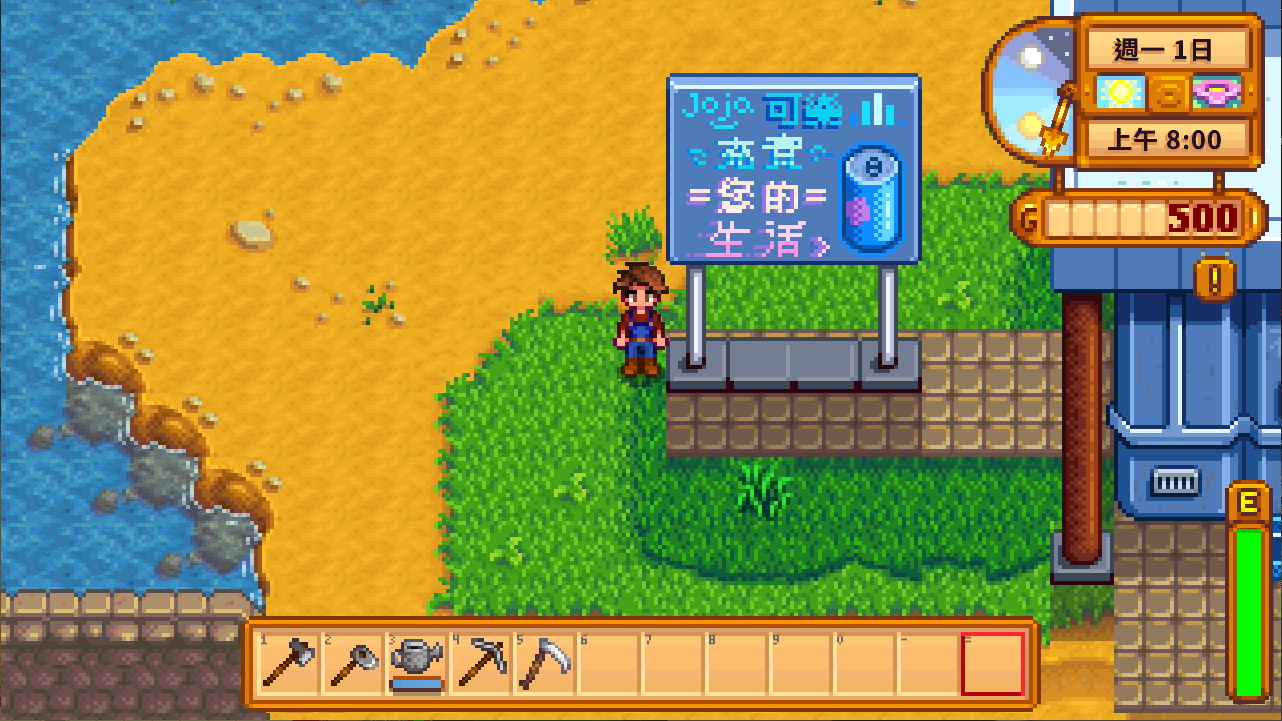
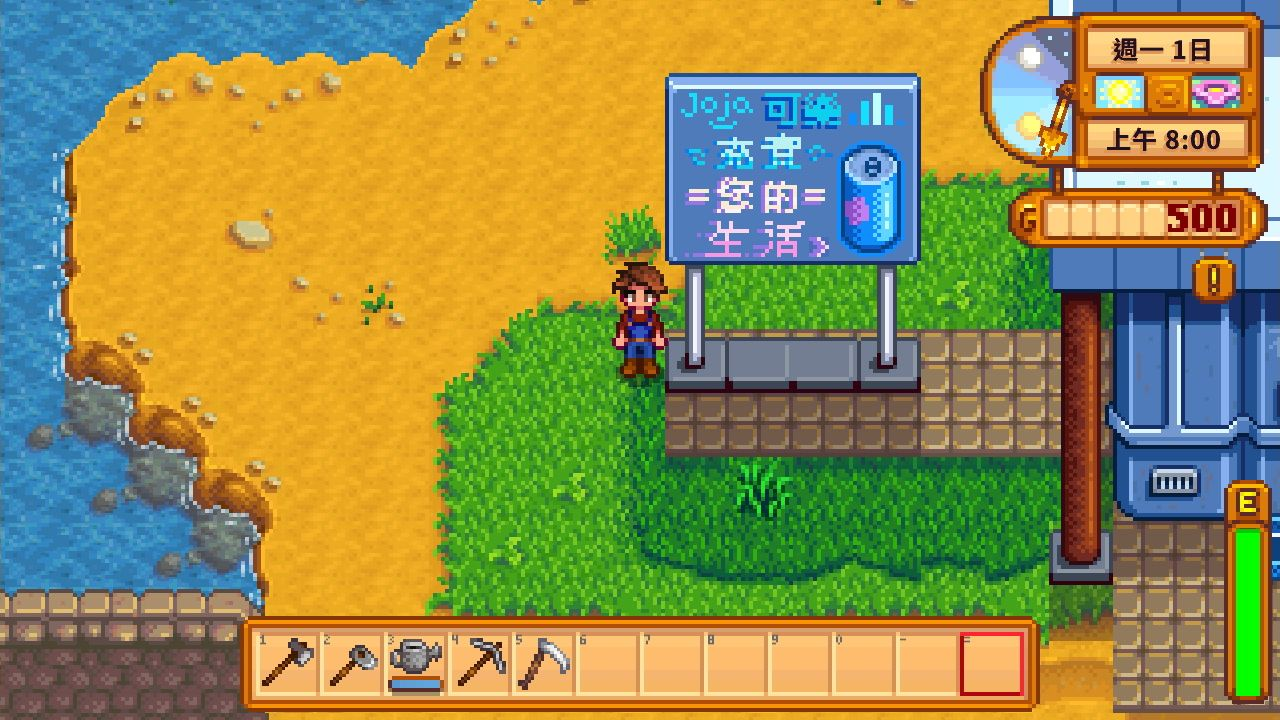
Update 0.9.1

diff --git a/index.html b/index.html
@@ -40,7 +40,7 @@
 						<div class="content">
 							<div class="inner">
 								<h1>《星露谷物語》正體中文模組</h1>
-								<p>模組版本：<a href="#update">0.9</a>  </p>
+								<p>模組版本：<a href="#update">0.9.1</a>  </p>
 							</div>
 						</div>
 						<nav>
@@ -49,7 +49,7 @@
 								<li><a href="#about" class="icon solid fa-street-view">參與成員</a></li>
 								<li><a href="#download" class="icon solid fa-download">安裝模組</a></li>
 								<li><a href="#contact" class="icon solid fa-envelope">聯絡資訊</a></li>
-								<li><a href="#donate" class="icon solid fa-pray">施捨我們</a></li>
+								<li><a href="#donate" class="icon solid fa-pray">支持我們</a></li>
 							</ul>
 						</nav>
 					</header>
@@ -65,63 +65,63 @@
 								<div class="slideshow-container">
 								<!-- Full-width images with number and caption text -->
 								<div class="mySlides fade">
-									<img src="images/sample/SourceHanSans_01.jpg" style="width:100%">
+									<img src="images/sample/font/SourceHanSans_01.jpg" style="width:100%">
 									<div class="text">思源黑體</div>
 								</div>
 								<div class="mySlides fade">
-									<img src="images/sample/SweiGothic_01.jpg" style="width:100%">
+									<img src="images/sample/font/SweiGothic_01.jpg" style="width:100%">
 									<div class="text">獅尾圓體</div>
 								</div>
 								<div class="mySlides fade">
-									<img src="images/sample/NaikaiFont_01.jpg" style="width:100%">
+									<img src="images/sample/font/NaikaiFont_01.jpg" style="width:100%">
 									<div class="text">內海字體</div>
 								</div>
 								<div class="mySlides fade">
-									<img src="images/sample/JasonHandwriting1_01.jpg" style="width:100%">
+									<img src="images/sample/font/JasonHandwriting1_01.jpg" style="width:100%">
 									<div class="text">清松手寫體</div>
 								</div>
 								<div class="mySlides fade">
-									<img src="images/sample/Zpix_01.jpg" style="width:100%">
+									<img src="images/sample/font/Zpix_01.jpg" style="width:100%">
 									<div class="text">最像素</div>
 								</div>
 								<div class="mySlides fade">
-									<img src="images/sample/SourceHanSans_02.jpg" style="width:100%">
+									<img src="images/sample/font/SourceHanSans_02.jpg" style="width:100%">
 									<div class="text">思源黑體</div>
 								</div>
 								<div class="mySlides fade">
-									<img src="images/sample/SweiGothic_02.jpg" style="width:100%">
+									<img src="images/sample/font/SweiGothic_02.jpg" style="width:100%">
 									<div class="text">獅尾圓體</div>
 								</div>
 								<div class="mySlides fade">
-									<img src="images/sample/NaikaiFont_02.jpg" style="width:100%">
+									<img src="images/sample/font/NaikaiFont_02.jpg" style="width:100%">
 									<div class="text">內海字體</div>
 								</div>
 								<div class="mySlides fade">
-									<img src="images/sample/JasonHandwriting1_02.jpg" style="width:100%">
+									<img src="images/sample/font/JasonHandwriting1_02.jpg" style="width:100%">
 									<div class="text">清松手寫體</div>
 								</div>
 								<div class="mySlides fade">
-									<img src="images/sample/Zpix_02.jpg" style="width:100%">
+									<img src="images/sample/font/Zpix_02.jpg" style="width:100%">
 									<div class="text">最像素</div>
 								</div>
 								<div class="mySlides fade">
-									<img src="images/sample/SourceHanSans_03.jpg" style="width:100%">
+									<img src="images/sample/font/SourceHanSans_03.jpg" style="width:100%">
 									<div class="text">思源黑體</div>
 								</div>
 								<div class="mySlides fade">
-									<img src="images/sample/SweiGothic_03.jpg" style="width:100%">
+									<img src="images/sample/font/SweiGothic_03.jpg" style="width:100%">
 									<div class="text">獅尾圓體</div>
 								</div>
 								<div class="mySlides fade">
-									<img src="images/sample/NaikaiFont_03.jpg" style="width:100%">
+									<img src="images/sample/font/NaikaiFont_03.jpg" style="width:100%">
 									<div class="text">內海字體</div>
 								</div>
 								<div class="mySlides fade">
-									<img src="images/sample/JasonHandwriting1_03.jpg" style="width:100%">
+									<img src="images/sample/font/JasonHandwriting1_03.jpg" style="width:100%">
 									<div class="text">清松手寫體</div>
 								</div>
 								<div class="mySlides fade">
-									<img src="images/sample/Zpix_03.jpg" style="width:100%">
+									<img src="images/sample/font/Zpix_03.jpg" style="width:100%">
 									<div class="text">最像素</div>
 								</div>
 								<!-- Next and previous buttons -->
@@ -148,7 +148,7 @@
 								</span>
 								<span class="image main diff">
 									<img src="images/sample/journal_before.jpg">
-									<img src="images/sample/SourceHanSans_01.jpg" class="img-after">
+									<img src="images/sample/font/SourceHanSans_01.jpg" class="img-after">
 								</span>
 								<span class="image main diff">
 									<img src="images/sample/Pierre_before.jpg">
@@ -217,7 +217,7 @@
 											<tr class="center">
 												<td>PC</td>
 												<td>1.5.4</td>
-												<td>0.9</td>
+												<td>0.9.1</td>
 											</tr>
 											<!-- <tr>
 												<td>Android</td>
@@ -228,7 +228,7 @@
 									</table>
 								</div>
 								<h3>說明</h3>
-								<p>本模組分為覆蓋版及 Content Patcher 版（CP 版），並加入了五種字型任君挑選！</p>
+								<p>本模組分為覆蓋版及 Content Patcher 版（CP 版），以及結合兩者優點的完全版。</p>
 								<div class="table-wrapper">
 									<table class="alt">
 										<thead>
@@ -249,8 +249,8 @@
 												</td>
 												<td style="vertical-align: top;">
 													<ul> 
-														<li>移除較不便</li>
 														<li>少部分內容依然為簡體※</li>
+														<li>須自行檢查模組更新</li>
 														<li>遊戲版本更新可能無法使用</li>
 													</ul>
 												</td>
@@ -269,8 +269,25 @@
 												<td style="vertical-align: top;">
 													<ul>	
 														<li>須安裝 SMAPI 模組載入器</li>
-														<li>部分換行顯示不正確</li>
+														<li ><a href="#EOL">部分換行顯示不正確</li>
 														<li>可能會與部分 CP 模組衝突</li>
+													</ul>
+												</td>
+											</tr>
+											<tr>
+												<td style="font-weight: bold;">完全版</td>
+												<td style="vertical-align: top;">
+													<ul> 
+														<li>完整正體中文化</li>
+														<li>切換字型容易</li>
+														<li>模組更新提醒</li>
+														<li><a href="#conflict">極少模組衝突</a>（正體模組<br />不會覆蓋掉其他模組）</li>
+													</ul>
+												</td>
+												<td style="vertical-align: top;">
+													<ul>	
+														<li>須安裝 SMAPI 模組載入器</li>
+														<li>遊戲版本更新可能無法使用</li>
 													</ul>
 												</td>
 											</tr>
@@ -280,15 +297,16 @@
 												<td colspan="3"><span style="font-size:small;">※1.4 加入了新的檔案格式（<span class="hide">電影院</span>），需要使用 Content Patcher 模組才能載入。</span></td>
 											</tr>
 											<tr>
-												<td colspan="3">一般情況建議使用覆蓋版。</td>
+												<td colspan="3">除非遊戲大更新導致覆蓋版失效，否則建議使用覆蓋版或完全版。</td>
 											</tr>
 										</tfoot>
 									</table>
 								</div>
 								<h3>下載</h3>
 								<ul class="actions">
-									<li><a href="https://dl.orangedox.com/P7owml" class="button icon brands fa-windows" target="_blank">安裝程式</a></li>
+									<li><a href="https://dl.orangedox.com/dkL6V1" class="button icon brands fa-windows" target="_blank">覆蓋版</a></li>
 									<li><a href="#ContentPatcher" class="button icon solid fa-circle">CP 版</a></li>
+									<li><a href="#Mix" class="button icon solid fa-mortar-pestle">完全版</a></li>
 									<!--<li><a href="#android" class="button icon brands fa-android">Android</a></li>-->
 								</ul>
 								<h3>其他</h3>
@@ -299,50 +317,81 @@
 								</ul>
 							</article>
 
-						<!-- Content Patcher -->
-						<article id="ContentPatcher">
-							<h2 class="major">CP 版</h2>
-							<h3>安裝模組</h3>
-								<ol>
-									<li>安裝 <a href="https://smapi.io/" target="_blank">SMAPI</a></li>
-									<li>下載 <a href="https://www.nexusmods.com/stardewvalley/mods/1915" target="_blank">Content Patcher</a>（以下皆須註冊 Nexus 帳號才可下載）</li>
-									<li>下載 <a href="https://www.nexusmods.com/stardewvalley/mods/5098" target="_blank">Generic Mod Config Menu</a>（用於方便切換字型，非必要）</li>
-									<li>下載<a href="https://www.nexusmods.com/stardewvalley/mods/8007" target="_blank">正體中文模組</a></li>
-									<li>將檔案解壓縮之後放入 Mods 資料夾即可</li>
-								</ol>
-								
-							<h3>切換字型</h3>
-							<p>點擊遊戲主畫面左下角的齒輪，修改後重新啟動遊戲即可。（須安裝 Generic Mod Config Menu）</p>
-							<h4>手動切換</h4>
-							<p>開啟模組資料夾內的 config.json，將「"Font": "SourceHanSans"」的「SourceHanSans」改為下列對應值即可。</p>
-							<table>
-								<thead>
-								</thead>
-								<tbody>
-									<tr>
-										<td>思源黑體</td>
-										<td>SourceHanSans</td>
-									</tr>
-									<tr>
-										<td>獅尾圓體</td>
-										<td>SweiGothic</td>
-									</tr>
-									<tr>
-										<td>內海字體</td>
-										<td>NaikaiFont</td>
-									</tr>
-									<tr>
-										<td>清松手寫體</td>
-										<td>JasonHandwriting1</td>
-									</tr>
-									<tr>
-										<td>最像素</td>
-										<td>Zpix</td>
-									</tr>
-								</tbody>
-							</table>
-						</article>
+						<!-- EOL -->
+							<article id="EOL">
+								<p>點擊圖片或將游標移至圖片上可檢視差異。</p>
+								<span class="image main diff">
+									<img src="images/sample/EOL.jpg">
+									<img src="images/sample/EOL_CP.jpg" class="img-after">
+								</span>
+							</article>
 
+						<!-- conflict -->
+							<article id="conflict">
+								<p>點擊圖片或將游標移至圖片上可檢視差異。</p>
+								<span class="image main diff">
+									<img src="images/sample/no_conflict.jpg">
+									<img src="images/sample/conflict.jpg" class="img-after">
+								</span>
+							</article>
+
+						<!-- Content Patcher -->
+							<article id="ContentPatcher">
+								<h2 class="major">CP 版</h2>
+								<h3>安裝模組</h3>
+								<p>以下除 SMAPI 之外皆須登入 Nexus 帳號才可下載。</p>
+									<ol>
+										<li>安裝 <a href="https://smapi.io/" target="_blank">SMAPI</a></li>
+										<li>下載 <a href="https://www.nexusmods.com/stardewvalley/mods/1915" target="_blank">Content Patcher</a></li>
+										<li>下載 <a href="https://www.nexusmods.com/stardewvalley/mods/5098" target="_blank">Generic Mod Config Menu</a>（用於方便切換字型，非必要）</li>
+										<li>下載<a href="https://www.nexusmods.com/stardewvalley/mods/8007" target="_blank">正體中文模組</a></li>
+										<li>將檔案解壓縮之後放入 Mods 資料夾即可</li>
+									</ol>
+									
+								<h3>切換字型</h3>
+								<p>點擊遊戲主畫面左下角的齒輪，修改「Font」選項後重新啟動遊戲即可。（須安裝 Generic Mod Config Menu）<span class="image main"><img src="images/sample/changefont.jpg"></span></p>
+								
+								<h4>手動切換</h4>
+								<p>開啟模組資料夾內的 config.json，將「"Font": "SourceHanSans"」的「SourceHanSans」改為下列對應值即可。</p>
+								<table>
+									<thead>
+									</thead>
+									<tbody>
+										<tr>
+											<td>思源黑體</td>
+											<td>SourceHanSans</td>
+										</tr>
+										<tr>
+											<td>獅尾圓體</td>
+											<td>SweiGothic</td>
+										</tr>
+										<tr>
+											<td>內海字體</td>
+											<td>NaikaiFont</td>
+										</tr>
+										<tr>
+											<td>清松手寫體</td>
+											<td>JasonHandwriting1</td>
+										</tr>
+										<tr>
+											<td>最像素</td>
+											<td>Zpix</td>
+										</tr>
+									</tbody>
+								</table>
+							</article>
+
+						<!-- Mix -->
+							<article id="Mix">
+								<h2 class="major">完全版</h2>
+									<ol>
+										<li>安裝覆蓋版</li>
+										<li>安裝 CP 版</li>
+										<li>點擊遊戲主畫面左下角的齒輪，將「Movie-only」選項選取後重新啟動遊戲即可。（或開啟模組資料夾內的 config.json，將「"Movie-only": "false"」的「false」改為「true」）<span class="image main"><img src="images/sample/Movie-only.jpg"></span></li>
+										<li>字型將套用 CP 版的設定，覆蓋版的字型不會生效</li>
+									</ol>
+								</table>
+							</article>
 						<!-- Android -->
 							<!--<article id="android">
 								<h2 class="major">Android</h2>
@@ -357,7 +406,16 @@
 						<!-- Update -->
 							<article id="update">
 								<h2 class="major">更新日誌</h2>
+								<h3>0.9.1</h3>
+								<h6>2021/02/15</h6>
+								<u1>
+									<li>新增完全版</li>
+									<li>修復事件錯誤</li>
+									<li>「載入」改為「讀取」、「中式儲藏櫃」改回「碗櫃」</li>
+								</u1>
+								<hr />
 								<h3>0.9</h3>
+								<h6>2021/02/10</h6>
 								<u1>
 									<li>修改非臺灣用語</li>
 									<li>圖片重新繪製</li>
@@ -1477,12 +1535,12 @@
 												<td>空置的膠囊</td>
 												<td>空膠囊</td>
 											</tr>
-											<tr>
+											<!-- <tr>
 												<td class="center"><span class="image medium"><img src="images/sdv/bigitem/Feed_Hopper.png" alt="Feed Hopper" loading="lazy" /></span></td>
 												<td>Feed Hopper</td>
 												<td>喂料斗</td>
 												<td>餵料斗</td>
-											</tr>
+											</tr> -->
 											<tr>
 												<td class="center"><span class="image medium"><img src="images/sdv/bigitem/Gold_Brazier.png" alt="Gold Brazier" loading="lazy" /></span></td>
 												<td>Gold Brazier</td>
@@ -2170,12 +2228,6 @@
 												<td>吊旗</td>
 											</tr>
 											<tr>
-												<td class="center"><span class="image medium"><img src="images/sdv/furniture/China_Cabinet.png" alt="China Cabinet" loading="lazy" /></span></td>
-												<td>China Cabinet</td>
-												<td>碗櫃</td>
-												<td>中式儲藏櫃</td>
-											</tr>
-											<tr>
 												<td class="center"><span class="image medium"><img src="images/sdv/furniture/Dark_Bookcase.png" alt="Dark Bookcase" loading="lazy" /></span></td>
 												<td>Dark Bookcase</td>
 												<td>深色書架</td>
@@ -2370,9 +2422,19 @@
 										</thead>
 										<tbody>
 											<tr>
+												<td>BLACKGULL</td>
+												<td>黑海鷗</td>
+												<td>黑鷗</td>
+											</tr>
+											<tr>
 												<td>Camping Stove</td>
 												<td>野營灶</td>
 												<td>野炊爐</td>
+											</tr>
+											<tr>
+												<td>Community Center</td>
+												<td>社區中心</td>	
+												<td>活動中心</td>
 											</tr>
 											<tr>
 												<td>Special Move</td>
@@ -2433,15 +2495,16 @@
 
 						<!-- Donate -->
 							<article id="donate">
-								<h2 class="major">施捨我們</h2>
-								<p>如果你喜歡我們的模組，可以斗內請我們喝杯咖啡_(:3 」∠ )_</p>
+								<h2 class="major">支持我們</h2>
+								<p>如果你喜歡我們的模組，可以斗內請我們喝杯咖啡_(:3 」∠ )_<span class="chide">或是送我一台 PS5</span></p>
 								<ul class="actions">
-								<li><a href="https://p.ecpay.com.tw/1C11A93" class="button" target="_blank">Ecpay</a></li>
-								<li><a href="#QRCode" class="button">街口支付</a></li>
-								<!-- <li><a href="#" class="button icon brands fa-paypal">PayPal</a></li> -->
+									<li><a href="https://p.ecpay.com.tw/1C11A93" class="button" target="_blank">Ecpay</a></li>
+									<li><a href="#QRCode" class="button">街口支付</a></li>
+									<!-- <li><a href="#" class="button icon brands fa-paypal">PayPal</a></li> -->
 								</ul>
 							</article>
-							<!-- Donate -->
+
+						<!-- QRCode -->
 							<article id="QRCode">
 								<h2 class="major">街口支付</h2>
 								<span class="image main"><img src="images/QRCode.png" alt="街口支付" /></span>
